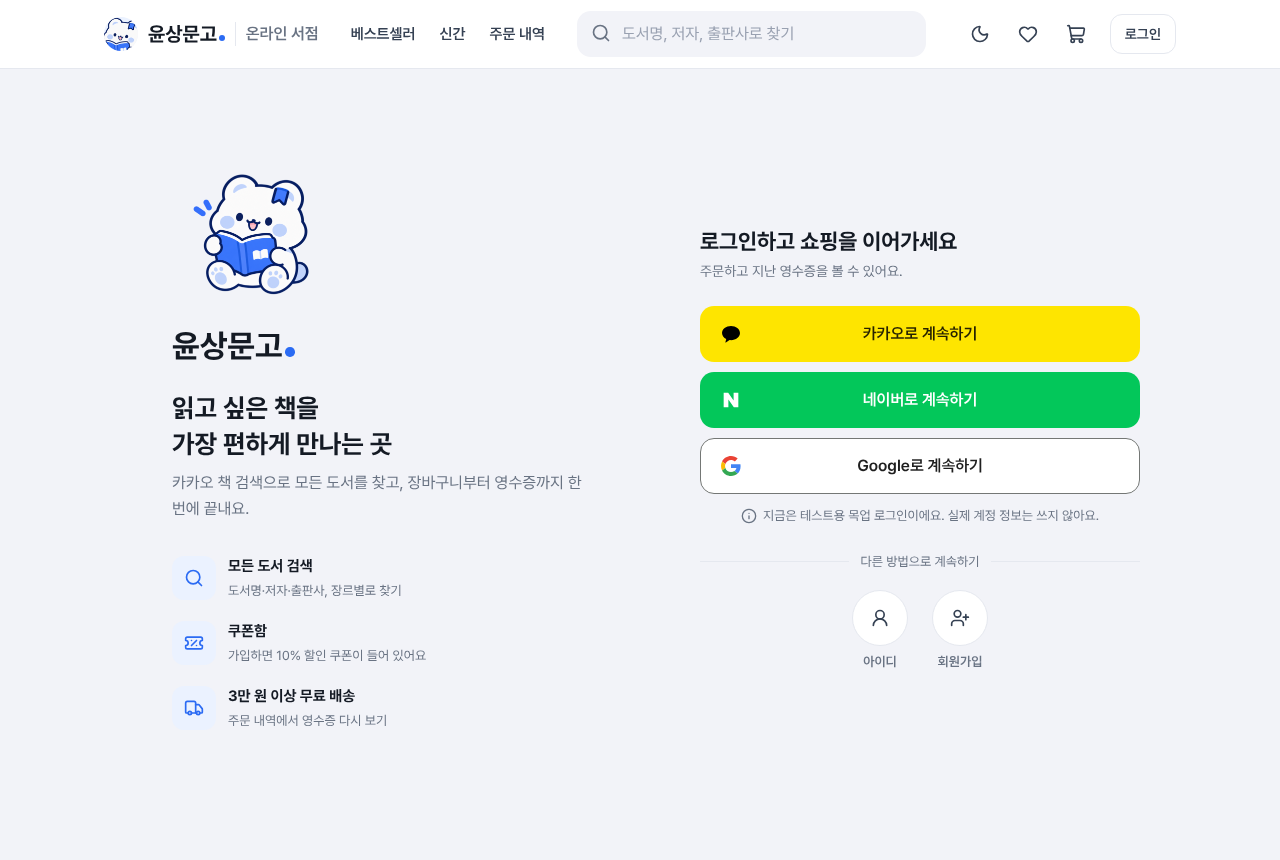
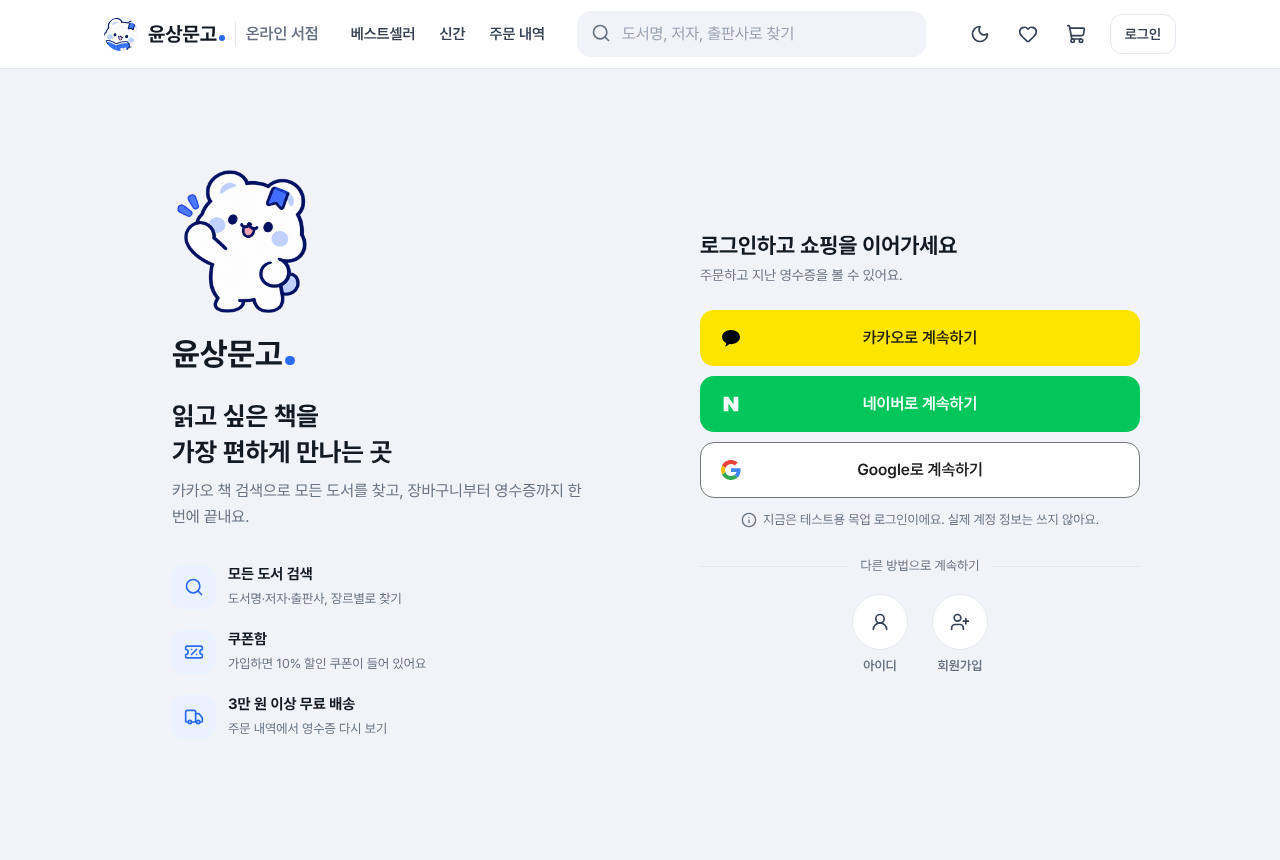
마스코트 표정 4종: 인사(로그인)·만세(주문 완료)·돋보기(빈 화면)·시무룩(오류), 404에 영문 톰캣 메시지 숨김
Claude-Session: https://claude.ai/code/session_013sPcTRwUcxTM9ZD5R6YqTC

diff --git a/src/main/webapp/css/components.css b/src/main/webapp/css/components.css
@@ -639,7 +639,7 @@ code { font-family: ui-monospace, SFMono-Regular, Menlo, monospace; font-size: .
 .fold > summary { cursor: pointer; list-style: none; display: flex; align-items: center; gap: 6px; min-height: var(--hit); font-weight: 600; color: var(--primary-strong); }
 .fold > summary::-webkit-details-marker { display: none; }
 .fold--danger > summary { color: var(--text-2); font-size: 14px; justify-content: center; }
-.auth-intro__mascot { display: block; width: 160px; height: auto; margin-bottom: var(--sp-4); }
+.auth-intro__mascot { display: block; width: 140px; height: auto; margin-bottom: var(--sp-4); }
 .receipt__mascot { display: block; width: 112px; height: auto; margin: 0 auto var(--sp-3); }
 /* 다크 모드: 투명 배경 마스코트가 어두운 면에서도 잘 보이게 옅은 받침 */
 :root[data-theme="dark"] .empty__mascot, :root[data-theme="dark"] .shop-hero__mascot, :root[data-theme="dark"] .auth-intro__mascot, :root[data-theme="dark"] .receipt__mascot { filter: drop-shadow(0 0 10px rgba(255,255,255,.12)); }
@@ -654,3 +654,6 @@ code { font-family: ui-monospace, SFMono-Regular, Menlo, monospace; font-size: .
   .shop-head h2 { font-size: 20px; line-height: 28px; font-weight: 700; }
   .shop-head .chip { height: 34px; font-size: 13px; }
 }
+.auth__mascot { display: block; width: 88px; height: auto; margin: 0 auto var(--sp-2); }
+.receipt__mascot { width: 120px; }
+:root[data-theme="dark"] .auth__mascot { filter: drop-shadow(0 0 10px rgba(255,255,255,.12)); }

diff --git a/README.md b/README.md
@@ -248,7 +248,7 @@ src/main/java/com/market/
 src/main/webapp/
   css/          tokens · base · components · pc(1024px 이상)
   js/           theme(다크 모드) · ui(토스트 · 시트 · 확인 모달 · 배송지 칩)
-  images/mascot 마스코트 곰 (로고 · 파비콘 · 빈 화면 · 영수증)
+  images/mascot 마스코트 곰 — 책 읽기(로고·목록), 인사(로그인), 만세(주문 완료), 돋보기(빈 화면), 시무룩(오류)
   WEB-INF/views JSP 화면 (common/ 공통 조각, admin/ 관리자)
 sql/            schema.sql (MySQL), schema-postgres.sql (Supabase), migrate-*.sql (기존 DB에 칸·표만 추가)
 tests/          HTTP 종단 테스트 205개 — 기본 68 + 회원 관리 33 + 배송·별점 24 + v3 기능 45 + 소셜 로그인 19 + 카카오 검색·장르 16
